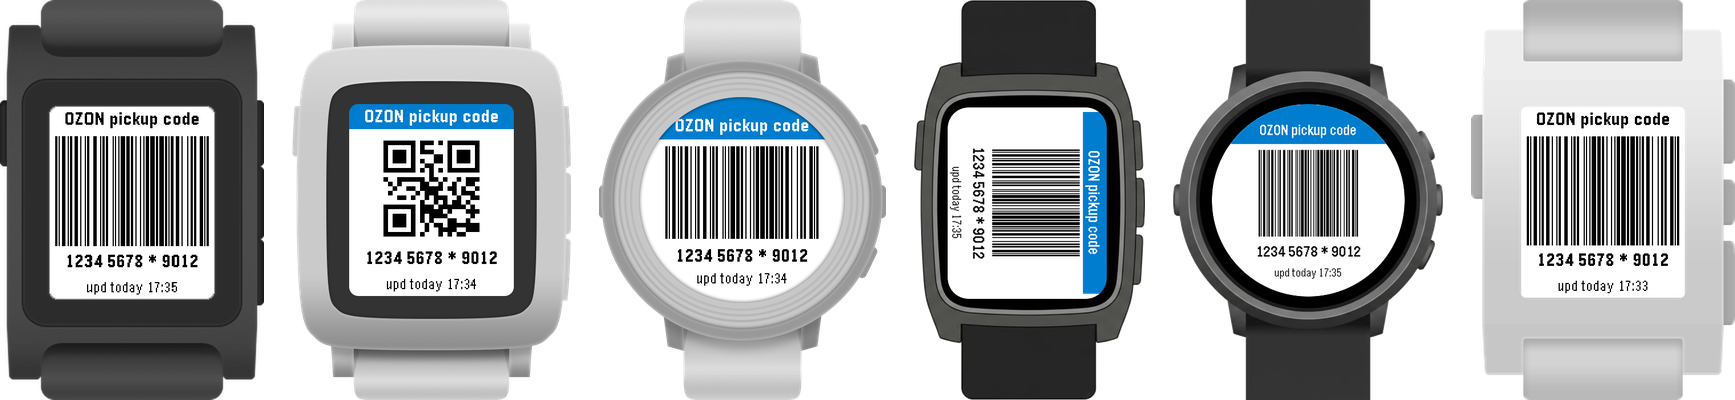
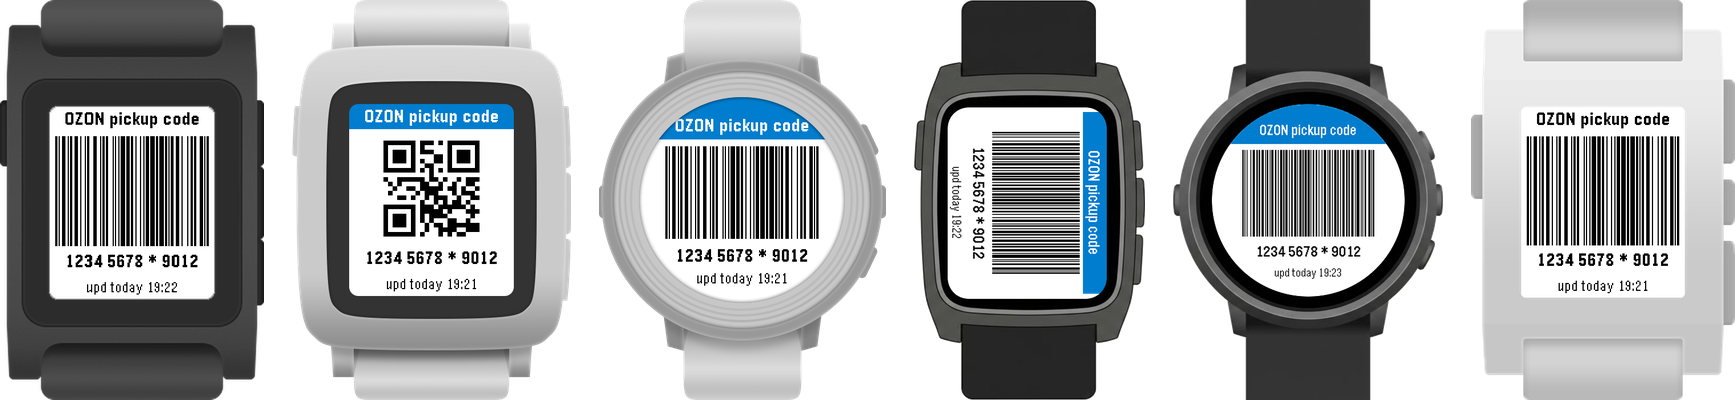
Wider barcode on Time 2 and Round 2, store assets, 1.3
Modules stay 1 px (fractional widths don't decode, 2 px needs ~300 px), so on
wide screens the code is made longer: draw_bars picks the encoding with the
fewest set-C digit pairs that still fits, filling the width like Member Card
does. Time 2 and Round 2 get it in the normal and rotated views; 144 px
screens and Time Round keep the dense code. Verified: every encoding budget
decodes (zxing, 157 codes), all views decode on all 7 emulators.

Also: docs/store (icons, banner, per-platform screenshots) and refreshed README
images. Version 1.3 (versionCode 4, watchapp 1.3.0).

diff --git a/watch/src/c/main.c b/watch/src/c/main.c
@@ -51,9 +51,10 @@ static ViewMode s_mode;
 static int s_timeout_s = DEFAULT_TIMEOUT_S;
 static AppTimer *s_exit_timer;
 
-static uint8_t s_widths[CODE128_MAX_WIDTHS];
+static uint8_t s_widths[CODE128_MAX_WIDTHS];  // dense (sets B + C)
 static int s_nwidths;
 static int s_modules;
+static uint8_t s_wide[CODE128_MAX_WIDTHS];    // scratch for a longer encoding (see draw_bars)
 static QrCode s_qr;        // the pickup code (test view)
 static QrCode s_setup_qr;  // COMPANION_URL
 
@@ -64,7 +65,7 @@ static AppTimer *s_fetch_timer;  // armed while the phone says "Updating..."
 static bool s_show_setup;  // setup screen opened with long SELECT
 
 static void encode(void) {
-  s_nwidths = code128_encode(s_code, s_widths, &s_modules);
+  s_nwidths = code128_encode(s_code, CODE128_DENSE, s_widths, &s_modules);
   qr_encode(s_code, QR_EC_M, &s_qr);
 }
 
@@ -90,15 +91,54 @@ static void draw_text(GContext *ctx, const char *text, const char *font, GRect b
                      GTextOverflowModeWordWrap, GTextAlignmentCenter, NULL);
 }
 
+__attribute__((unused)) static int isqrt(int v) {
+  int r = 0;
+  while ((r + 1) * (r + 1) <= v) r++;
+  return r;
+}
+
+// Room for the code along its direction. Round screens: the chord at the band edge farthest from
+// the centre, so the code and its quiet zones stay inside the circle on every bar line.
+static int bars_length(GRect area, bool vertical, GRect screen) {
+  int length = vertical ? area.size.h : area.size.w;
+#ifdef PBL_ROUND
+  int r = screen.size.w / 2;
+  int from = vertical ? area.origin.x : area.origin.y;
+  int to = from + (vertical ? area.size.w : area.size.h);
+  int d = from - r < 0 ? r - from : from - r;
+  if (to - r > d) d = to - r;
+  if (r - to > d) d = r - to;
+  int chord = d < r ? 2 * isqrt(r * r - d * d) : 0;
+  if (chord < length) length = chord;
+#endif
+  return length;
+}
+
 // Modules are always a whole number of pixels: tested with zxing on 303 Ozon-like codes,
 // 1.2-1.4 px/module (what stretching to 200px would give) decodes 0%, 1 and 2+ px 100%.
-static void draw_bars(GContext *ctx, GRect area, bool vertical) {
+// 2px needs ~300px, more than any Pebble has, so the code is made longer instead (as Member Card
+// does): the fewest digit pairs in set C whose code still fits, i.e. as wide as the room allows.
+// Time 2 and Round 2 get a wider code; 144px screens and Time Round keep the dense one.
+static void draw_bars(GContext *ctx, GRect area, bool vertical, GRect screen) {
+  int room = bars_length(area, vertical, screen) - 2 * MARGIN;
+  const uint8_t *widths = s_widths;
+  int n = s_nwidths, modules = s_modules;
+  if (s_modules < room) {
+    for (int pairs = 0; pairs <= CODE128_MAX_CHARS / 2; pairs++) {
+      int m = 0;
+      int nw = code128_encode(s_code, pairs, s_wide, &m);
+      if (nw && m <= room) {
+        if (m > modules) { widths = s_wide; n = nw; modules = m; }
+        break;
+      }
+    }
+  }
   int length = vertical ? area.size.h : area.size.w;
-  int scale = (length - 2 * MARGIN) / s_modules;
+  int scale = room / modules;
   if (scale < 1) scale = 1;
-  int pos = (length - s_modules * scale) / 2;
-  for (int i = 0; i < s_nwidths; i++) {
-    int w = s_widths[i] * scale;
+  int pos = (length - modules * scale) / 2;
+  for (int i = 0; i < n; i++) {
+    int w = widths[i] * scale;
     if (i % 2 == 0) {
       GRect bar = vertical
           ? GRect(area.origin.x, area.origin.y + pos, area.size.w, w)
@@ -355,7 +395,7 @@ static void draw_rotated(GContext *ctx, GRect b) {
   graphics_context_set_fill_color(ctx, header_bg());
   graphics_fill_rect(ctx, rotate_rect(l.header, b), 0, GCornerNone);
   graphics_context_set_fill_color(ctx, GColorBlack);
-  draw_bars(ctx, rotate_rect(l.content, b), true);
+  draw_bars(ctx, rotate_rect(l.content, b), true, b);
 
   GBitmap *fb = graphics_capture_frame_buffer(ctx);
   for (int i = 0; i < 3; i++) {
@@ -381,7 +421,7 @@ static void canvas_update(Layer *layer, GContext *ctx) {
     return;
   }
 
-  // The module width stays 1px everywhere: 2px would need 268px for a typical 134-module code.
+  // The module width stays 1px everywhere: 2px would need ~300px for a typical code.
   bool big = b.size.w >= 200;
   Layout l = layout_for(b);
   draw_frame_texts(ctx, &l, big);
@@ -392,7 +432,7 @@ static void canvas_update(Layer *layer, GContext *ctx) {
     draw_qr(ctx, &s_qr, l.content, 1);  // as big as the band allows: 4px modules on 144x168
 #endif
   } else {
-    draw_bars(ctx, l.content, false);
+    draw_bars(ctx, l.content, false, b);
   }
 }
 

diff --git a/watch/src/c/code128.c b/watch/src/c/code128.c
@@ -33,7 +33,7 @@ static int digit_run(const char *s) {
   return n;
 }
 
-int code128_encode(const char *text, uint8_t *out, int *total_modules) {
+int code128_encode(const char *text, int c_pairs, uint8_t *out, int *total_modules) {
   int len = strlen(text);
   if (len == 0 || len > CODE128_MAX_CHARS) return 0;
   for (int i = 0; i < len; i++) {
@@ -43,14 +43,16 @@ int code128_encode(const char *text, uint8_t *out, int *total_modules) {
   uint8_t values[CODE128_MAX_CHARS * 2 + 3];
   int nv = 0;
   // Set C is worth it for runs of 4+ digits (or a code made only of 2+ digits).
-  bool set_c = digit_run(text) >= 4 || (digit_run(text) == len && len >= 2 && len % 2 == 0);
+  // Entering set C costs a symbol, so it needs at least 2 pairs of budget to save anything.
+  bool set_c = c_pairs >= 2 && (digit_run(text) >= 4 || (digit_run(text) == len && len >= 2 && len % 2 == 0));
   values[nv++] = set_c ? START_C : START_B;
 
   for (int i = 0; i < len;) {
     if (set_c) {
-      if (digit_run(text + i) >= 2) {
+      if (digit_run(text + i) >= 2 && c_pairs > 0) {
         values[nv++] = (text[i] - '0') * 10 + (text[i + 1] - '0');
         i += 2;
+        c_pairs--;
         continue;
       }
       values[nv++] = CODE_B;
@@ -58,7 +60,7 @@ int code128_encode(const char *text, uint8_t *out, int *total_modules) {
     }
     int run = digit_run(text + i);
     // Switch to C only for an even-length tail of the run, so no digit is left over.
-    if (run >= 4 && run % 2 == 0) {
+    if (c_pairs >= 2 && run >= 4 && run % 2 == 0) {
       values[nv++] = CODE_C;
       set_c = true;
       continue;

diff --git a/watch/src/c/code128.h b/watch/src/c/code128.h
@@ -5,8 +5,12 @@
 #define CODE128_MAX_CHARS 32
 #define CODE128_MAX_WIDTHS ((CODE128_MAX_CHARS * 2 + 3) * 6 + 7)
 
-// Encodes printable ASCII (32..126) as Code 128, switching between sets B and C
-// so digit runs take half the width. Writes alternating bar/space widths
-// (in modules, starting with a bar) into out. Returns the number of widths,
-// or 0 if the text is empty, too long or contains unsupported characters.
-int code128_encode(const char *text, uint8_t *out, int *total_modules);
+// Densest encoding: as many digit pairs in set C as useful.
+#define CODE128_DENSE 255
+
+// Encodes printable ASCII (32..126) as Code 128, switching between sets B and C so digit runs
+// take half the width. At most [c_pairs] digit pairs go into set C (0 = all set B, one symbol per
+// character): fewer pairs give a longer code with the same module, to fill a wide screen.
+// Writes alternating bar/space widths (in modules, starting with a bar) into out. Returns the
+// number of widths, or 0 if the text is empty, too long or contains unsupported characters.
+int code128_encode(const char *text, int c_pairs, uint8_t *out, int *total_modules);

diff --git a/CLAUDE.md b/CLAUDE.md
@@ -143,8 +143,12 @@ android/       Kotlin/Compose companion, package com.grapie.pickitup, PebbleKit2
 ## Hard-won rules
 
 - Barcode modules must be a **whole number of pixels**. Tested with zxing on 303 Ozon-like codes:
-  1.2–1.4 px/module decodes 0%, 1 px and 2+ px 100%. The watch uses 1 px/module on both screens;
-  do not stretch the code to the screen width (the user asked once; it was rejected for this).
+  1.2–1.4 px/module decodes 0%, 1 px and 2+ px 100%. 2 px needs ~300 px: no Pebble has that,
+  so modules stay 1 px everywhere. To fill wide screens the code is made *longer* instead (as
+  the "Member Card" app does): `code128_encode(text, c_pairs, ...)` caps the digit pairs in set C;
+  `draw_bars` picks the fewest pairs whose code fits (round: the chord at the band edge). Time 2 and
+  Round 2 get the wider code (both views), 144 px screens and Time Round the dense one. All
+  budgets 0..12 + dense decode on 157 codes with zxing.
 - PebbleKit2 `DefaultPebbleSender.close()` throws "Service not registered" when no Pebble app is
   installed (the bind never happened) and crashed the app on every send: always `closeQuietly`.
 - Login state = a real account id (`isLoggedIn()`, cached in `BarcodeStore.loggedIn`), never "some
